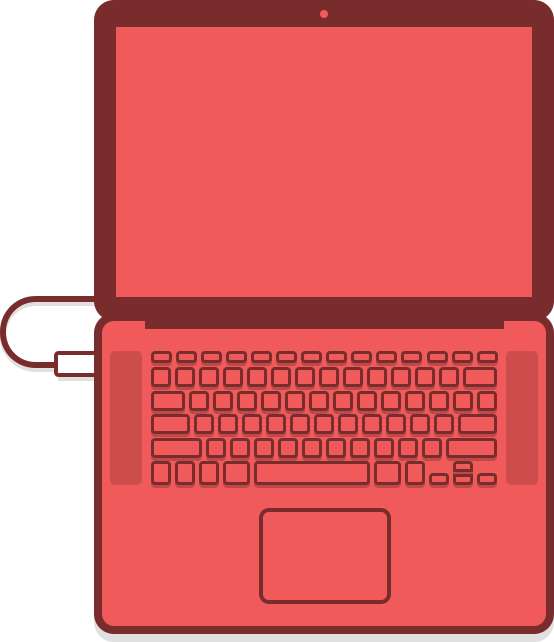
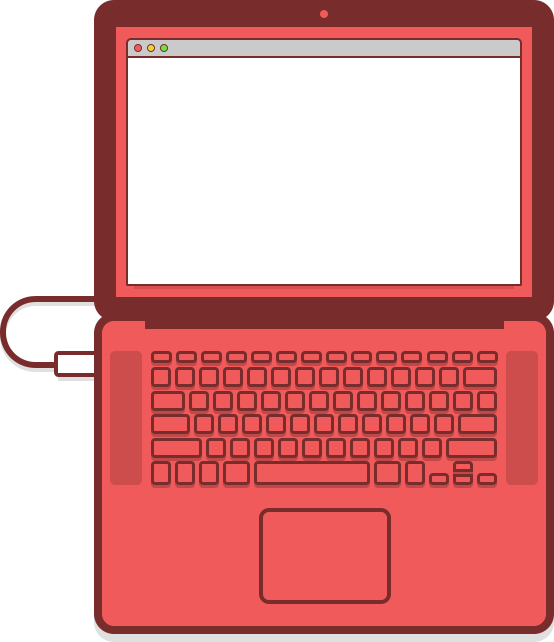
added code chaos gif

Changed region(s): [[0.2148, 0.0623, 0.9513, 0.4673]]

diff --git a/js/min/main-ck.js b/js/min/main-ck.js
@@ -1,1 +1,1 @@
-function fbShare(e,t,a,n,o,i){var s=screen.height/2-i/2,r=screen.width/2-o/2;window.open("http://www.facebook.com/sharer.php?s=100&p[title]="+t+"&p[summary]="+a+"&p[url]="+e+"&p[images][0]="+n,"sharer","top="+s+",left="+r+",toolbar=0,status=0,width="+o+",height="+i)}function googleShare(e,t){var a=screen.width/2-e/2,n=screen.height/2-t/2;return window.open("https://plus.google.com/share?url=http://kickdrop.me,'','toolbar=no, menubar=no, scrollbars=yes, resizable=yes, width="+e+", height="+t+", top="+n+", left="+a)}$(document).ready(function(){$.fn.fullpage({verticalCentered:!0,css3:!0,slidesColor:["#32b9b1","#f15a5a","#a6ce59","#0fa6db","#ab65e6"],navigation:!0,navigationPosition:"right",anchors:["intro","problem","themes","drops","signup"],menu:"#menu",navigationTooltips:["Intro","Problem","Themes","Drops","Signup"],scrollingSpeed:100,fixedElements:".logo, .bottom-buttons",onLeave:function(e,t){"1"==e&&"down"==t&&($(".logo .text").delay(800).animate({"margin-top":"-200px"},300,"easeInBack"),$(".intro").addClass("intro-hidden")),"5"==e&&"up"==t&&$(".bottom-buttons").delay(800).animate({bottom:"15px"},300,"easeOutBack")},afterLoad:function(e){"intro"==e&&($(".logo .text").delay(800).animate({"margin-top":"0px"},200,"easeOutBack"),$(".intro").removeClass("intro-hidden")),"problem"==e&&$(".problem .text").addClass("animated bounceInRight"),"themes"==e&&($(".themes .text").addClass("animated bounceInDown"),$(".themes .logos").addClass("animated bounceInUp"),$(".theme-1").delay(800).animate({"margin-left":"-420px"},300,"easeOutBack"),$(".theme-2").delay(800).animate({"margin-left":"-350px"},300,"easeOutBack"),$(".theme-3").delay(800).animate({"margin-left":"-150px"},300,"easeOutBack"),$(".theme-4").delay(800).animate({"margin-left":"-80px"},300,"easeOutBack")),"drops"==e&&$(".drops .text").addClass("animated bounceInLeft"),"signup"==e&&($(".bottom-buttons").delay(600).animate({bottom:"-100px"},300,"easeInBack"),$(".signup .text").addClass("animated bounceInUp"))}}),$(".logo").mouseenter(function(){$(".intro").is(".intro-hidden")&&$(".logo .text").animate({"margin-top":"0px"},200,"easeOutBack")}),$(".logo").mouseleave(function(){$(".intro").is(".intro-hidden")&&$(".logo .text").animate({"margin-top":"-200px"},300,"easeInBack")}),$(".widgets .widget").each(function(){$(this).mousedown(function(){var e=$(this).attr("title");$(".box."+e).addClass("active animated rubberBand")}),$(this).mouseup(function(){var e=$(this).attr("title");$(".box."+e).removeClass("active animated rubberBand")})}),$(".widgets .widget").draggable({revert:"invalid",revertDuration:500}),$(".box").each(function(){var e=$(this).attr("title");$(this).droppable({tolerance:"touch",accept:function(t){return t.hasClass(e)?!0:void 0},drop:function(t,a){$(".widget."+e).addClass("animated tada"),$(".widget."+e).draggable("disable"),$(a.draggable).detach().css({top:0,left:0}).appendTo(this),$(this).addClass("complete"),6===$(".browser-content .complete").length&&$(".drops").addClass("completed")}})}),$(".twitter-share").click(function(e){var t=575,a=400,n=(screen.width-t)/2,o=(screen.height-a)/2,i=this.href,s="status=1,width="+t+",height="+a+",top="+o+",left="+n;return window.open(i,"twitter",s),!1})});
+function fbShare(e,t,a,o,n,i){var s=screen.height/2-i/2,r=screen.width/2-n/2;window.open("http://www.facebook.com/sharer.php?s=100&p[title]="+t+"&p[summary]="+a+"&p[url]="+e+"&p[images][0]="+o,"sharer","top="+s+",left="+r+",toolbar=0,status=0,width="+n+",height="+i)}function googleShare(e,t){var a=screen.width/2-e/2,o=screen.height/2-t/2;return window.open("https://plus.google.com/share?url=http://kickdrop.me,'','toolbar=no, menubar=no, scrollbars=yes, resizable=yes, width="+e+", height="+t+", top="+o+", left="+a)}$(document).ready(function(){$.fn.fullpage({verticalCentered:!0,css3:!0,slidesColor:["#32b9b1","#f15a5a","#a6ce59","#0fa6db","#ab65e6"],navigation:!0,navigationPosition:"right",anchors:["intro","problem","themes","drops","signup"],menu:"#menu",navigationTooltips:["Intro","Problem","Themes","Drops","Signup"],scrollingSpeed:100,fixedElements:".logo, .bottom-buttons",onLeave:function(e,t){"1"==e&&"down"==t&&($(".logo .text").delay(800).animate({"margin-top":"-200px"},300,"easeInBack"),$(".intro").addClass("intro-hidden")),"5"==e&&"up"==t&&$(".bottom-buttons").delay(800).animate({bottom:"15px"},300,"easeOutBack")},afterLoad:function(e){"intro"==e&&($(".logo .text").delay(800).animate({"margin-top":"0px"},200,"easeOutBack"),$(".intro").removeClass("intro-hidden")),"problem"==e&&$(".problem .text").addClass("animated bounceInRight"),"themes"==e&&($(".themes .text").addClass("animated bounceInDown"),$(".themes .logos").addClass("animated bounceInUp"),$(".theme-1").delay(800).animate({"margin-left":"-420px"},300,"easeOutBack"),$(".theme-2").delay(800).animate({"margin-left":"-350px"},300,"easeOutBack"),$(".theme-3").delay(800).animate({"margin-left":"-150px"},300,"easeOutBack"),$(".theme-4").delay(800).animate({"margin-left":"-80px"},300,"easeOutBack")),"drops"==e&&$(".drops .text").addClass("animated bounceInLeft"),"signup"==e&&($(".bottom-buttons").delay(600).animate({bottom:"-100px"},300,"easeInBack"),$(".signup .text").addClass("animated bounceInUp"))}}),$(".logo").mouseenter(function(){$(".intro").is(".intro-hidden")&&$(".logo .text").animate({"margin-top":"0px"},200,"easeOutBack")}),$(".logo").mouseleave(function(){$(".intro").is(".intro-hidden")&&$(".logo .text").stop().animate({"margin-top":"-200px"},300,"easeInBack")}),$(".widgets .widget").each(function(){$(this).mousedown(function(){var e=$(this).attr("title");$(".box."+e).addClass("active animated rubberBand")}),$(this).mouseup(function(){var e=$(this).attr("title");$(".box."+e).removeClass("active animated rubberBand")})}),$(".widgets .widget").draggable({revert:"invalid",revertDuration:500}),$(".box").each(function(){var e=$(this).attr("title");$(this).droppable({tolerance:"touch",accept:function(t){return t.hasClass(e)?!0:void 0},drop:function(t,a){$(".widget."+e).addClass("animated tada"),$(".widget."+e).draggable("disable"),$(a.draggable).detach().css({top:0,left:0}).appendTo(this),$(this).addClass("complete"),6===$(".browser-content .complete").length&&$(".drops").addClass("completed")}})}),$(".twitter-share").click(function(e){var t=575,a=400,o=(screen.width-t)/2,n=(screen.height-a)/2,i=this.href,s="status=1,width="+t+",height="+a+",top="+n+",left="+o;return window.open(i,"twitter",s),!1})});

diff --git a/css/main.css b/css/main.css
@@ -194,7 +194,10 @@ textarea {
     width: 179px;
     height: 282px;
     display: block;
-    margin: 80px auto 0; }
+    margin: 80px auto 0;
+    -webkit-animation: spaceSpin 15s infinite linear;
+    -moz-animation: spaceSpin 15s infinite linear;
+    animation: spaceSpin 15s infinite linear; }
 
 /*----------------------------------------------------------------------------------- */
 /*  Problem */
@@ -283,9 +286,9 @@ textarea {
     height: 642px;
     display: block;
     position: absolute;
-    top: 50%;
+    bottom: 18%;
     left: 10%;
-    margin-top: -321px; }
+    margin-top: -320px; }
     @media (min--moz-device-pixel-ratio: 1.3), (-o-min-device-pixel-ratio: 2.6 / 2), (-webkit-min-device-pixel-ratio: 1.3), (min-device-pixel-ratio: 1.3), (min-resolution: 1.3dppx) {
       .problem .laptop {
         background: url("../images/laptop@2x.png") no-repeat 0 0;
@@ -294,6 +297,28 @@ textarea {
       position: relative;
       width: 100%;
       height: 100%; }
+    .problem .laptop .pencil {
+      background: url("../images/pencil.png") no-repeat 0 0;
+      background-size: 24px 222px;
+      width: 24px;
+      height: 222px;
+      display: block;
+      position: absolute;
+      bottom: 25px;
+      left: 25px; }
+    .problem .laptop .screen {
+      background: url("../images/screen.gif") no-repeat 0 0;
+      background-size: 392px 226px;
+      width: 392px;
+      height: 226px;
+      display: block;
+      position: absolute;
+      top: 58px;
+      left: 128px; }
+      @media (min--moz-device-pixel-ratio: 1.3), (-o-min-device-pixel-ratio: 2.6 / 2), (-webkit-min-device-pixel-ratio: 1.3), (min-device-pixel-ratio: 1.3), (min-resolution: 1.3dppx) {
+        .problem .laptop .screen {
+          background: url("../images/screen@2x.gif") no-repeat 0 0;
+          background-size: 392px 226px; } }
     .problem .laptop .hand {
       background: url("../images/hand.gif") no-repeat 0 0;
       background-size: 448px 610px;
@@ -372,16 +397,6 @@ textarea {
               -webkit-animation: smokeL 10s 8s infinite;
               -moz-animation: smokeL 10s 8s infinite;
               animation: smokeL 10s 8s infinite; }
-  .problem .pencil {
-    background: url("../images/pencil.png") no-repeat 0 0;
-    background-size: 24px 222px;
-    width: 24px;
-    height: 222px;
-    display: block;
-    position: absolute;
-    top: 50%;
-    left: 10%;
-    margin: 85px 0 0 10px; }
 
 /*----------------------------------------------------------------------------------- */
 /*  Free themes */

diff --git a/css/main.sass b/css/main.sass
@@ -210,7 +210,7 @@ textarea
   .astronaut
     @include bgImage("../images/astronaut.png", 179px, 282px)
     margin: 80px auto 0
-    // @include animation(spaceSpin 15s infinite linear)
+    @include animation(spaceSpin 15s infinite linear)
 
 
 /*-----------------------------------------------------------------------------------*/
@@ -249,13 +249,22 @@ textarea
   .laptop
     @include bgImage("../images/laptop.png", 554px, 642px)
     @include image2x("../images/laptop@2x.png", 555px, 642px)
-    @include position(absolute, 50% 0 0 10%)
-    margin-top: -321px
+    @include position(absolute, 0 0 18% 10%)
+    margin-top: -320px
 
     .wrapper
       position: relative
       width: 100%
       height: 100%
+
+    .pencil
+      @include bgImage("../images/pencil.png", 24px, 222px)
+      @include position(absolute, 0 0 25px 25px)
+
+    .screen
+      @include bgImage("../images/screen.gif", 392px, 226px)
+      @include image2x("../images/screen@2x.gif", 392px, 226px)
+      @include position(absolute, 58px 0 0 128px)
 
     .hand
       @include bgImage("../images/hand.gif", 448px, 610px)
@@ -307,11 +316,6 @@ textarea
               @include animation(smokeR 10s 7s infinite)
             &.s8
               @include animation(smokeL 10s 8s infinite)
-
-  .pencil
-    @include bgImage("../images/pencil.png", 24px, 222px)
-    @include position(absolute, 50% 0 0 10%)
-    margin: 85px 0 0 10px
 
 
 /*-----------------------------------------------------------------------------------*/

diff --git a/index.html b/index.html
@@ -43,6 +43,8 @@
     <div class="section problem">
       <div class="laptop">
         <div class="wrapper">
+          <div class="screen"></div>
+          <div class="pencil"></div>
           <div class="coffee">
             <div class="wrapper">
               <div class="smoke">
@@ -61,7 +63,6 @@
           </div>
         </div>
       </div>
-      <div class="pencil"></div>
     </div>
     <div class="section themes">
       <div class="theme-options">

diff --git a/js/main.js b/js/main.js
@@ -57,7 +57,7 @@ $(document).ready(function() {
 
   $('.logo').mouseleave(function(){
     if($(".intro").is('.intro-hidden')){
-      $('.logo .text').animate({'margin-top': '-200px'}, 300, 'easeInBack');
+      $('.logo .text').stop().animate({'margin-top': '-200px'}, 300, 'easeInBack');
     }
   });
 
